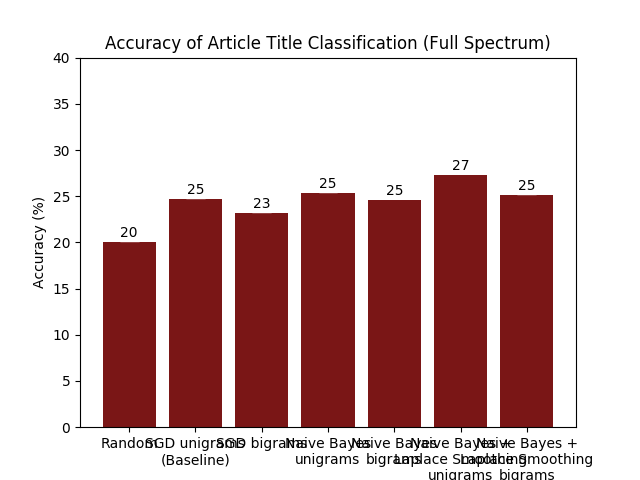
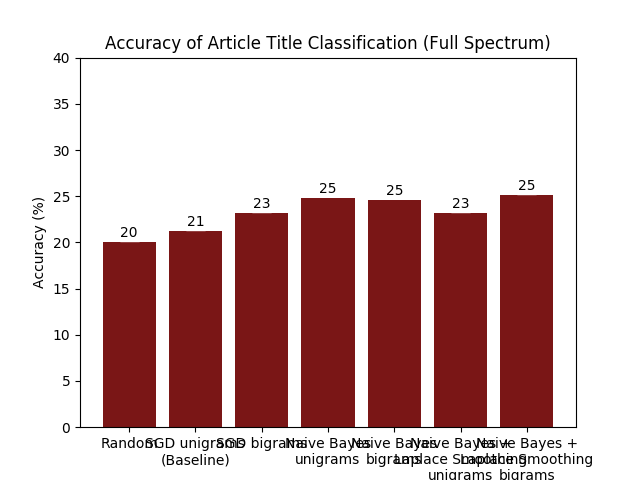
saving with not ngrams running

Changed region(s): [[0.6562, 0.3438, 0.7812, 0.4688], [0.25, 0.375, 0.3438, 0.5], [0.4688, 0.375, 0.5625, 0.4375]]

diff --git a/bias/run_eval.py b/bias/run_eval.py
@@ -31,32 +31,32 @@ def runAll(modelParams, model):
     #runExperiments(modelParams, True, model, "GuessBiasOfPublisher")
 
 def runExperiments(modelParams, includeRLOnly, model, predict):
-#    print("Run no ngrams, full spectrum for %s predicting %s\n" % (model, predict))
-#    bias.runExperiment(modelParams, fileName(model, False, False, predict))
-
-#    if includeRLOnly:
-#        print("Run no ngrams, RL only for %s predicting %s\n" % (model, predict))
-#        modelParams["LeftRightOnly"] = True
-#        bias.runExperiment(modelParams, fileName(model, True, False, predict))
-
-    print("Run with ngrams, full spectrum for %s predicting %s\n" % (model, predict))
-    modelParams["Ngrams"] = True
-    modelParams["LeftRightOnly"] = False
-    bias.runExperiment(modelParams, fileName(model, False, True, predict))
+    print("Run no ngrams, full spectrum for %s predicting %s\n" % (model, predict))
+    bias.runExperiment(modelParams, fileName(model, False, False, predict))
 
     if includeRLOnly:
-        print("Run with ngrams, RL only for %s predicting %s\n" % (model, predict))
+        print("Run no ngrams, RL only for %s predicting %s\n" % (model, predict))
         modelParams["LeftRightOnly"] = True
-        bias.runExperiment(modelParams, fileName(model, True, True, predict))
+        bias.runExperiment(modelParams, fileName(model, True, False, predict))
+
+#    print("Run with ngrams, full spectrum for %s predicting %s\n" % (model, predict))
+#    modelParams["Ngrams"] = True
+#    modelParams["LeftRightOnly"] = False
+#    bias.runExperiment(modelParams, fileName(model, False, True, predict))
+#
+#    if includeRLOnly:
+#        print("Run with ngrams, RL only for %s predicting %s\n" % (model, predict))
+#        modelParams["LeftRightOnly"] = True
+#        bias.runExperiment(modelParams, fileName(model, True, True, predict))
 
 logisticRegressionParams = params.copy()
 runAll(logisticRegressionParams, "LogisticRegression")
 
 naiveBayesParams = params.copy()
-naiveBayesParams["NaiveBayes"] = True
+naiveBayesParams["NaiveBayesCom"] = True
 runAll(naiveBayesParams, "NaiveBayes")
 
 naiveBayesLaplaceParams = params.copy()
-naiveBayesLaplaceParams["NaiveBayes"] = True
+naiveBayesLaplaceParams["NaiveBayesCom"] = True
 naiveBayesLaplaceParams["LaplaceSmoothing"] = True
 runAll(naiveBayesLaplaceParams, "LaplaceNaiveBayes")
